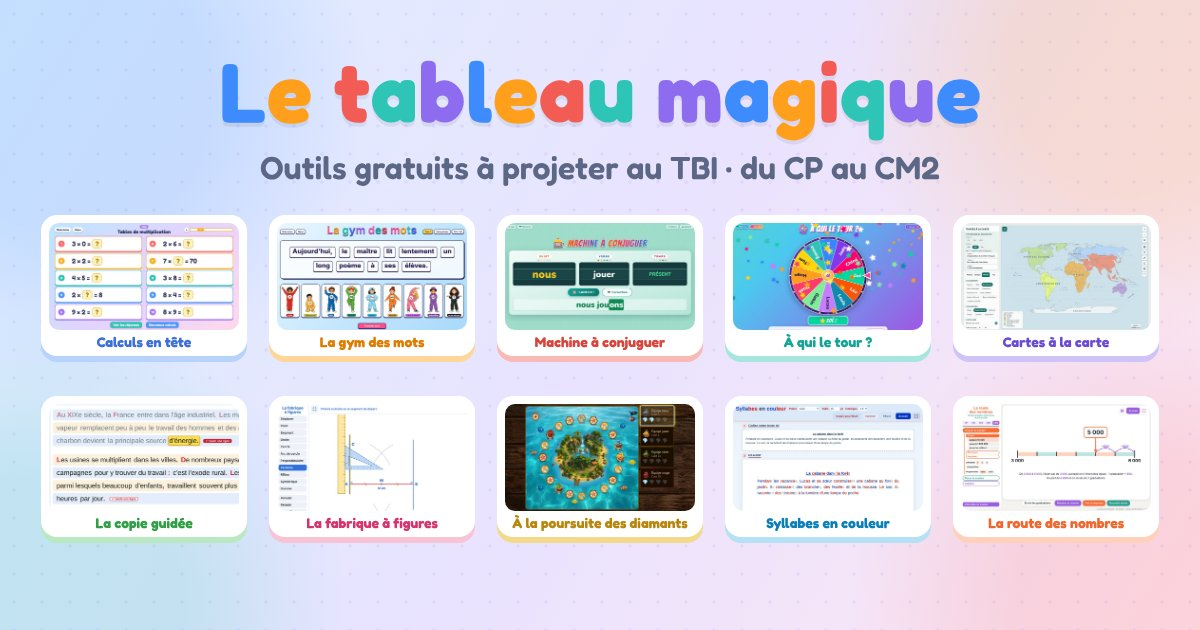
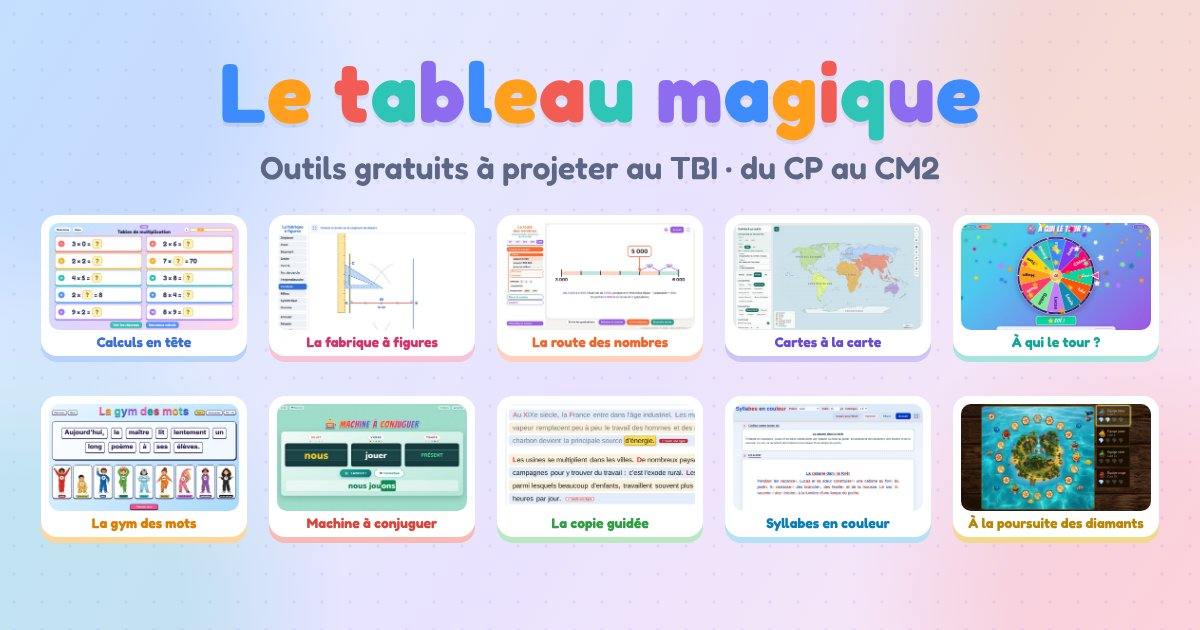
Portail : tuiles réordonnées (maths et transversal, puis français), « droites graduées · du CP au CM2 », accueil lisible sur téléphone
- la disposition des cartes vérifie que tout tient vraiment, et la page défile sur un téléphone plutôt que d'afficher des cartes illisibles

Claude-Session: https://claude.ai/code/session_01Te8xrvMufWVNSVLdwnm9Mc

diff --git a/index.html b/index.html
@@ -125,7 +125,7 @@
   }
 
   .tuile .niveau{font-size:max(10px,calc(var(--police,28px) * .6));font-weight:500;color:var(--encre-douce);text-align:center;margin-top:2px;line-height:1.15}
-  @media (max-height:500px){ .tuile .niveau{display:none} }   /* téléphone à l'horizontale : le nom seul, faute de place */
+  @media (max-height:500px){ .tuile .niveau, .apercu .niveau{display:none} }   /* téléphone à l'horizontale : le nom seul, faute de place */
 
   /* (la couleur propre à chaque outil, --couleur et --ombre, vient de outils.js) */
 
@@ -175,6 +175,9 @@
   .consigne{flex:none;margin:3.5vh 0 1vh;font-size:clamp(14px,1.9vh,18px);color:var(--encre-douce);font-weight:500}
 
   /* Aperçus des outils : même calcul de disposition que les tuiles (fonction disposer) */
+  /* Très petit écran (voir disposer) : la page défile plutôt que d'afficher des cartes illisibles */
+  html.defile-apercus, html.defile-apercus body, html.defile-tuiles, html.defile-tuiles body{height:auto;min-height:100%;overflow-y:auto}
+  html.defile-apercus #apercus, html.defile-tuiles #tuiles{flex:none;align-content:flex-start;padding-bottom:80px}
   #apercus{
     flex:1;min-height:0;width:100%;
     display:flex;flex-wrap:wrap;justify-content:center;align-content:center;gap:var(--ecart,24px);
@@ -401,57 +404,75 @@
     + '<div class="niveau">' + echapper(o.niveau) + '</div></button>').join('');
 
   /* Dispose des cartes (tuiles ou aperçus) pour qu'elles tiennent toutes dans leur zone.
-     On essaie 1, 2, 3… colonnes et on garde celle qui donne les plus grandes cartes.
-     S'adapte tout seul quand on ajoute un outil. */
+     Pour 1, 2, 3… colonnes : on estime la plus grande largeur de carte, on l'essaie, et on la réduit
+     tant que les cartes débordent (noms sur deux lignes, police minimale sur téléphone…).
+     On garde le nombre de colonnes qui donne les plus grandes cartes. S'adapte tout seul quand on ajoute un outil. */
   function disposer(zone, selecteur, marge, texte){
     const cartes = zone.querySelectorAll(selecteur);
     const n = cartes.length;
+    document.documentElement.classList.remove('defile-' + zone.id);   // on mesure la zone telle qu'elle est sans défilement
     if(!n || !zone.clientHeight) return;
 
     const W = zone.clientWidth, H = zone.clientHeight;
     const ecart = Math.round(Math.min(40, Math.max(12, Math.min(W, H) * 0.035)));
     const ombre = 16;           // ombre colorée sous la carte
-    let meilleur = { largeur:0, colonnes:1 };
+
+    // Applique une disposition : largeur des cartes, marges sur les côtés (chaque rangée contient
+    // exactement « colonnes » cartes) et rangées équilibrées, les plus courtes en haut (7 outils = 3 + 4).
+    const appliquer = (colonnes, l) => {
+      const rangee = colonnes * l + (colonnes - 1) * ecart;
+      zone.style.setProperty('--bord', Math.max(0, Math.floor((W - rangee) / 2) - 1) + 'px');
+      zone.style.setProperty('--largeur', l + 'px');
+      zone.style.setProperty('--ecart', ecart + 'px');
+      zone.style.setProperty('--police', Math.max(12, Math.min(34, l * 0.065)) + 'px');   // police plus petite sur téléphone : le nom reste entier
+      zone.querySelectorAll('.saut-rangee').forEach(s => s.remove());
+      const lignes = Math.ceil(n / colonnes);
+      if(lignes > 1 && n % lignes){
+        const base = Math.floor(n / lignes), courtes = lignes - n % lignes;   // rangées de « base », puis de « base + 1 »
+        let fin = 0;
+        for(let r = 0; r < lignes - 1; r++){
+          fin += r < courtes ? base : base + 1;
+          const saut = document.createElement('span');
+          saut.className = 'saut-rangee';
+          cartes[fin - 1].after(saut);
+        }
+      }
+    };
+    const tient = () => {
+      const r = [...cartes].map(c => c.getBoundingClientRect());
+      return Math.max(...r.map(x => x.bottom)) - Math.min(...r.map(x => x.top)) <= H + 2   // l'ombre peut mordre sur la marge
+          && Math.max(...r.map(x => x.right)) - Math.min(...r.map(x => x.left)) <= W + 1;
+    };
 
     // Au moins deux rangées dès 4 outils (3 + 3 pour 6 outils), sauf sur un écran très bas (téléphone
     // à l'horizontale) où une seule rangée laisse des cartes plus lisibles.
     const maxColonnes = (n >= 4 && H >= 260) ? Math.ceil(n / 2) : n;
+    let meilleur = { l:0, colonnes:1 };
     for(let colonnes = 1; colonnes <= maxColonnes; colonnes++){
       const lignes = Math.ceil(n / colonnes);
-      // largeur permise par la place en largeur…
+      // largeur permise par la place en largeur, et par la place en hauteur (image 16/9 + texte ≈ « texte » × la largeur)
       const parLargeur = (W - ecart * (colonnes - 1)) / colonnes;
-      // …et par la place en hauteur (image 16/9 + texte ≈ « texte » × la largeur)
       const hTuile = (H - ecart * (lignes - 1)) / lignes - ombre;
-      const parHauteur = (hTuile - marge) / (9/16 + texte) + 24;
-      const largeur = Math.min(parLargeur, parHauteur);
-      if(largeur > meilleur.largeur) meilleur = { largeur, colonnes };
+      let l = Math.floor(Math.min(parLargeur, (hTuile - marge) / (9/16 + texte) + 24));
+      if(l <= meilleur.l) continue;                        // ne peut pas faire mieux que la meilleure trouvée
+      appliquer(colonnes, l);
+      while(!tient() && l > meilleur.l && l > 50) appliquer(colonnes, l = Math.floor(l * 0.95));
+      if(tient() && l > meilleur.l) meilleur = { l, colonnes };
     }
-
-    const l = Math.floor(meilleur.largeur);
-    // marges sur les côtés pour que chaque rangée contienne exactement « colonnes » cartes
-    const rangee = meilleur.colonnes * l + (meilleur.colonnes - 1) * ecart;
-    zone.style.setProperty('--bord', Math.max(0, Math.floor((W - rangee) / 2) - 1) + 'px');
-    zone.style.setProperty('--largeur', l + 'px');
-    zone.style.setProperty('--ecart', ecart + 'px');
-    zone.style.setProperty('--police', Math.max(12, Math.min(34, l * 0.065)) + 'px');   // police plus petite sur téléphone : le nom reste entier
-
-    // Rangées équilibrées, les plus courtes en haut : 7 outils = 3 + 4 sur deux rangées, 2 + 2 + 3 sur trois
-    zone.querySelectorAll('.saut-rangee').forEach(s => s.remove());
-    const lignes = Math.ceil(n / meilleur.colonnes);
-    if(lignes > 1 && n % lignes){
-      const base = Math.floor(n / lignes), courtes = lignes - n % lignes;   // rangées de « base », puis de « base + 1 »
-      let fin = 0;
-      for(let r = 0; r < lignes - 1; r++){
-        fin += r < courtes ? base : base + 1;
-        const saut = document.createElement('span');
-        saut.className = 'saut-rangee';
-        cartes[fin - 1].after(saut);
-      }
+    /* Téléphone : si les cartes deviennent trop petites pour être lues, la page défile exceptionnellement,
+       avec des cartes d'au moins 130 px (2 ou 3 par rangée en portrait). */
+    const MINI = 105;
+    if(meilleur.l < MINI){
+      const colonnes = Math.max(2, Math.min(n, Math.floor((W + ecart) / (130 + ecart))));
+      meilleur = { l: Math.floor((W - ecart * (colonnes - 1)) / colonnes), colonnes };
+      document.documentElement.classList.add('defile-' + zone.id);
     }
+    appliquer(meilleur.colonnes, meilleur.l);
   }
   function disposerTout(){
+    document.documentElement.classList.remove('defile-apercus', 'defile-tuiles');   // chaque zone se mesure sans défilement
     disposer(document.getElementById('tuiles'), '.tuile', 32, innerHeight > 500 ? 0.17 : 0.12);   // 0.17 : nom + niveau
-    disposer(document.getElementById('apercus'), '.apercu', 24, 0.19);
+    disposer(document.getElementById('apercus'), '.apercu', 24, innerHeight > 500 ? 0.19 : 0.14);   // 0.19 : nom + niveau
     fermerBulle();
   }
 

diff --git a/outils.js b/outils.js
@@ -29,6 +29,49 @@ self.OUTILS = [
     couleur: '#3D6FD9', ombre: '#B7D3FB'
   },
   {
+    dossier: 'geometrie',
+    version: '2.2',
+    nom: 'La fabrique à figures',
+    niveau: 'cycle 3',
+    texte: 'Un outil de géométrie plus simple et plus facile à utiliser au tableau interactif que GeoGebra. '
+         + 'Points, segments, droites, cercles et arcs de cercle, perpendiculaires, parallèles, milieu et symétrique. '
+         + 'Les instruments s’animent : l’équerre, la règle et le compas tracent sous les yeux des élèves. '
+         + 'Longueurs, codages, noms des points, sur quadrillage ou feuille blanche.',
+    donnees: ['fabrique-a-figures'],
+    couleur: '#D6336C', ombre: '#F8C3D5'
+  },
+  {
+    dossier: 'droites-graduees',
+    version: '1.0',
+    nom: 'La route des nombres',
+    niveau: 'droites graduées · du CP au CM2',
+    texte: 'Des droites graduées à projeter, sur le modèle des évaluations nationales. Trouver le nombre montré par la flèche, '
+         + 'placer un nombre, ou explorer en zoomant de 10 en 10. Entiers, décimaux et fractions, trois niveaux de difficulté. '
+         + 'Fiches Word à imprimer, avec corrigé.',
+    donnees: ['route-des-nombres'],
+    couleur: '#F2662E', ombre: '#FFD0BC'
+  },
+  {
+    dossier: 'cartes-a-la-carte',
+    version: '1.0',
+    nom: 'Cartes à la carte',
+    niveau: 'du CP à la 6e',
+    texte: 'Cartes de France, d’Europe et du monde à projeter, classées selon les thèmes du programme de géographie. '
+         + 'On choisit ce qu’on affiche (régions, pays, fleuves, population, climats…), on zoome et on situe l’école. '
+         + 'Cartes muettes. Préparation de séances. Conception d’évaluations. Impression ou copie pour Word.',
+    donnees: ['cartes-a-la-carte'],
+    couleur: '#6A4BD1', ombre: '#CFC4F7'
+  },
+  {
+    dossier: 'tirage-au-sort',
+    version: '1.0',
+    nom: 'À qui le tour ?',
+    niveau: 'tous niveaux',
+    texte: 'Une roue colorée tire au sort un élève de la liste de la classe, avec l’historique des tirages.',
+    donnees: ['dernier_liste_utilisee', 'son_actif', 'son_style', 'son_fin'],
+    couleur: '#16A497', ombre: '#A6E6DF'
+  },
+  {
     dossier: 'nature-des-mots',
     version: '1.2',
     nom: 'La gym des mots',
@@ -51,26 +94,6 @@ self.OUTILS = [
     couleur: '#D9443C', ombre: '#F9B9B4'
   },
   {
-    dossier: 'tirage-au-sort',
-    version: '1.0',
-    nom: 'À qui le tour ?',
-    niveau: 'tous niveaux',
-    texte: 'Une roue colorée tire au sort un élève de la liste de la classe, avec l’historique des tirages.',
-    donnees: ['dernier_liste_utilisee', 'son_actif', 'son_style', 'son_fin'],
-    couleur: '#16A497', ombre: '#A6E6DF'
-  },
-  {
-    dossier: 'cartes-a-la-carte',
-    version: '1.0',
-    nom: 'Cartes à la carte',
-    niveau: 'du CP à la 6e',
-    texte: 'Cartes de France, d’Europe et du monde à projeter, classées selon les thèmes du programme de géographie. '
-         + 'On choisit ce qu’on affiche (régions, pays, fleuves, population, climats…), on zoome et on situe l’école. '
-         + 'Cartes muettes. Préparation de séances. Conception d’évaluations. Impression ou copie pour Word.',
-    donnees: ['cartes-a-la-carte'],
-    couleur: '#6A4BD1', ombre: '#CFC4F7'
-  },
-  {
     dossier: 'copie-guidee',
     version: '1.1',
     nom: 'La copie guidée',
@@ -82,30 +105,6 @@ self.OUTILS = [
          + 'Polices Arial, Belle Allure ou OpenDyslexic.',
     donnees: ['copieGuidee.'],
     couleur: '#2F9E44', ombre: '#B9E8C3'
-  },
-  {
-    dossier: 'geometrie',
-    version: '2.2',
-    nom: 'La fabrique à figures',
-    niveau: 'cycle 3',
-    texte: 'Un outil de géométrie plus simple et plus facile à utiliser au tableau interactif que GeoGebra. '
-         + 'Points, segments, droites, cercles et arcs de cercle, perpendiculaires, parallèles, milieu et symétrique. '
-         + 'Les instruments s’animent : l’équerre, la règle et le compas tracent sous les yeux des élèves. '
-         + 'Longueurs, codages, noms des points, sur quadrillage ou feuille blanche.',
-    donnees: ['fabrique-a-figures'],
-    couleur: '#D6336C', ombre: '#F8C3D5'
-  },
-  {
-    dossier: 'jeu-de-revision',
-    version: '1.1',
-    nom: 'À la poursuite des diamants',
-    niveau: 'jeu de révision · tous niveaux',
-    texte: 'Jeu de révision en équipes. Trois ou quatre équipages de pirates tournent autour de l’île : une bonne réponse '
-         + 'fait avancer d’une case, une mauvaise fait reculer. En dépassant un rival, on s’empare de ses diamants. '
-         + 'Le premier équipage à tous les réunir gagne. L’enseignant prépare les questions, sur le thème de son choix, '
-         + 'et peut les faire afficher au tableau avec leur réponse.',
-    donnees: ['poursuite-des-diamants'],
-    couleur: '#B8860B', ombre: '#F2D98C'
   },
   {
     dossier: 'syllabes-en-couleur',
@@ -120,14 +119,15 @@ self.OUTILS = [
     couleur: '#0B7FB8', ombre: '#B5E0F5'
   },
   {
-    dossier: 'droites-graduees',
-    version: '1.0',
-    nom: 'La route des nombres',
-    niveau: 'du CP au CM2',
-    texte: 'Des droites graduées à projeter, sur le modèle des évaluations nationales. Trouver le nombre montré par la flèche, '
-         + 'placer un nombre, ou explorer en zoomant de 10 en 10. Entiers, décimaux et fractions, trois niveaux de difficulté. '
-         + 'Fiches Word à imprimer, avec corrigé.',
-    donnees: ['route-des-nombres'],
-    couleur: '#F2662E', ombre: '#FFD0BC'
+    dossier: 'jeu-de-revision',
+    version: '1.1',
+    nom: 'À la poursuite des diamants',
+    niveau: 'jeu de révision · tous niveaux',
+    texte: 'Jeu de révision en équipes. Trois ou quatre équipages de pirates tournent autour de l’île : une bonne réponse '
+         + 'fait avancer d’une case, une mauvaise fait reculer. En dépassant un rival, on s’empare de ses diamants. '
+         + 'Le premier équipage à tous les réunir gagne. L’enseignant prépare les questions, sur le thème de son choix, '
+         + 'et peut les faire afficher au tableau avec leur réponse.',
+    donnees: ['poursuite-des-diamants'],
+    couleur: '#B8860B', ombre: '#F2D98C'
   }
 ];
